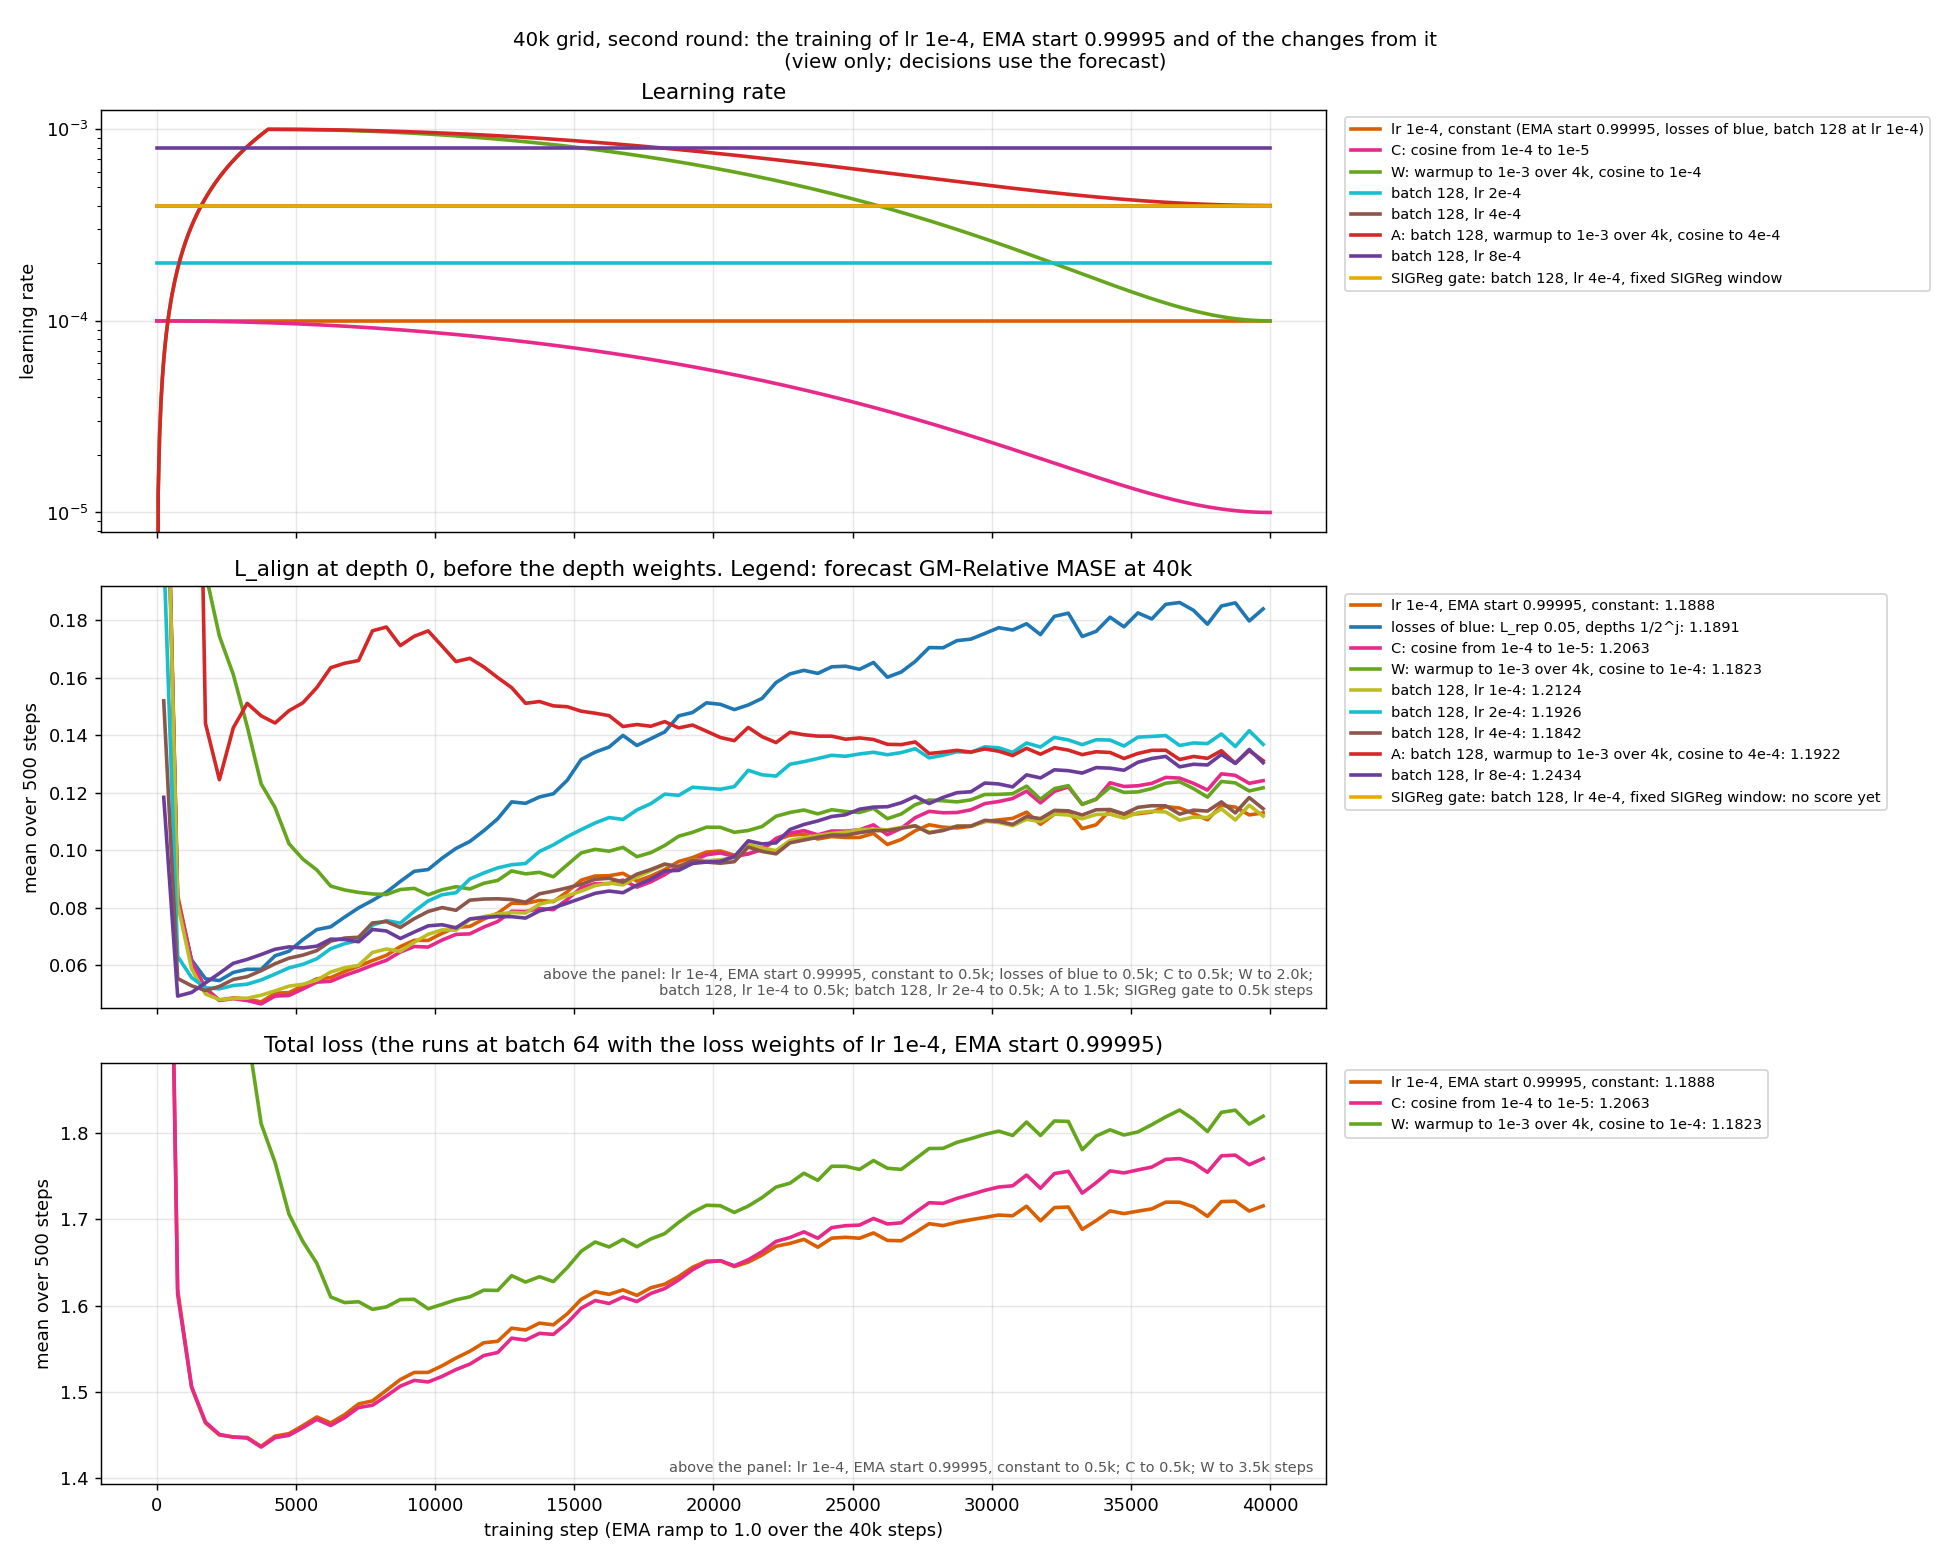
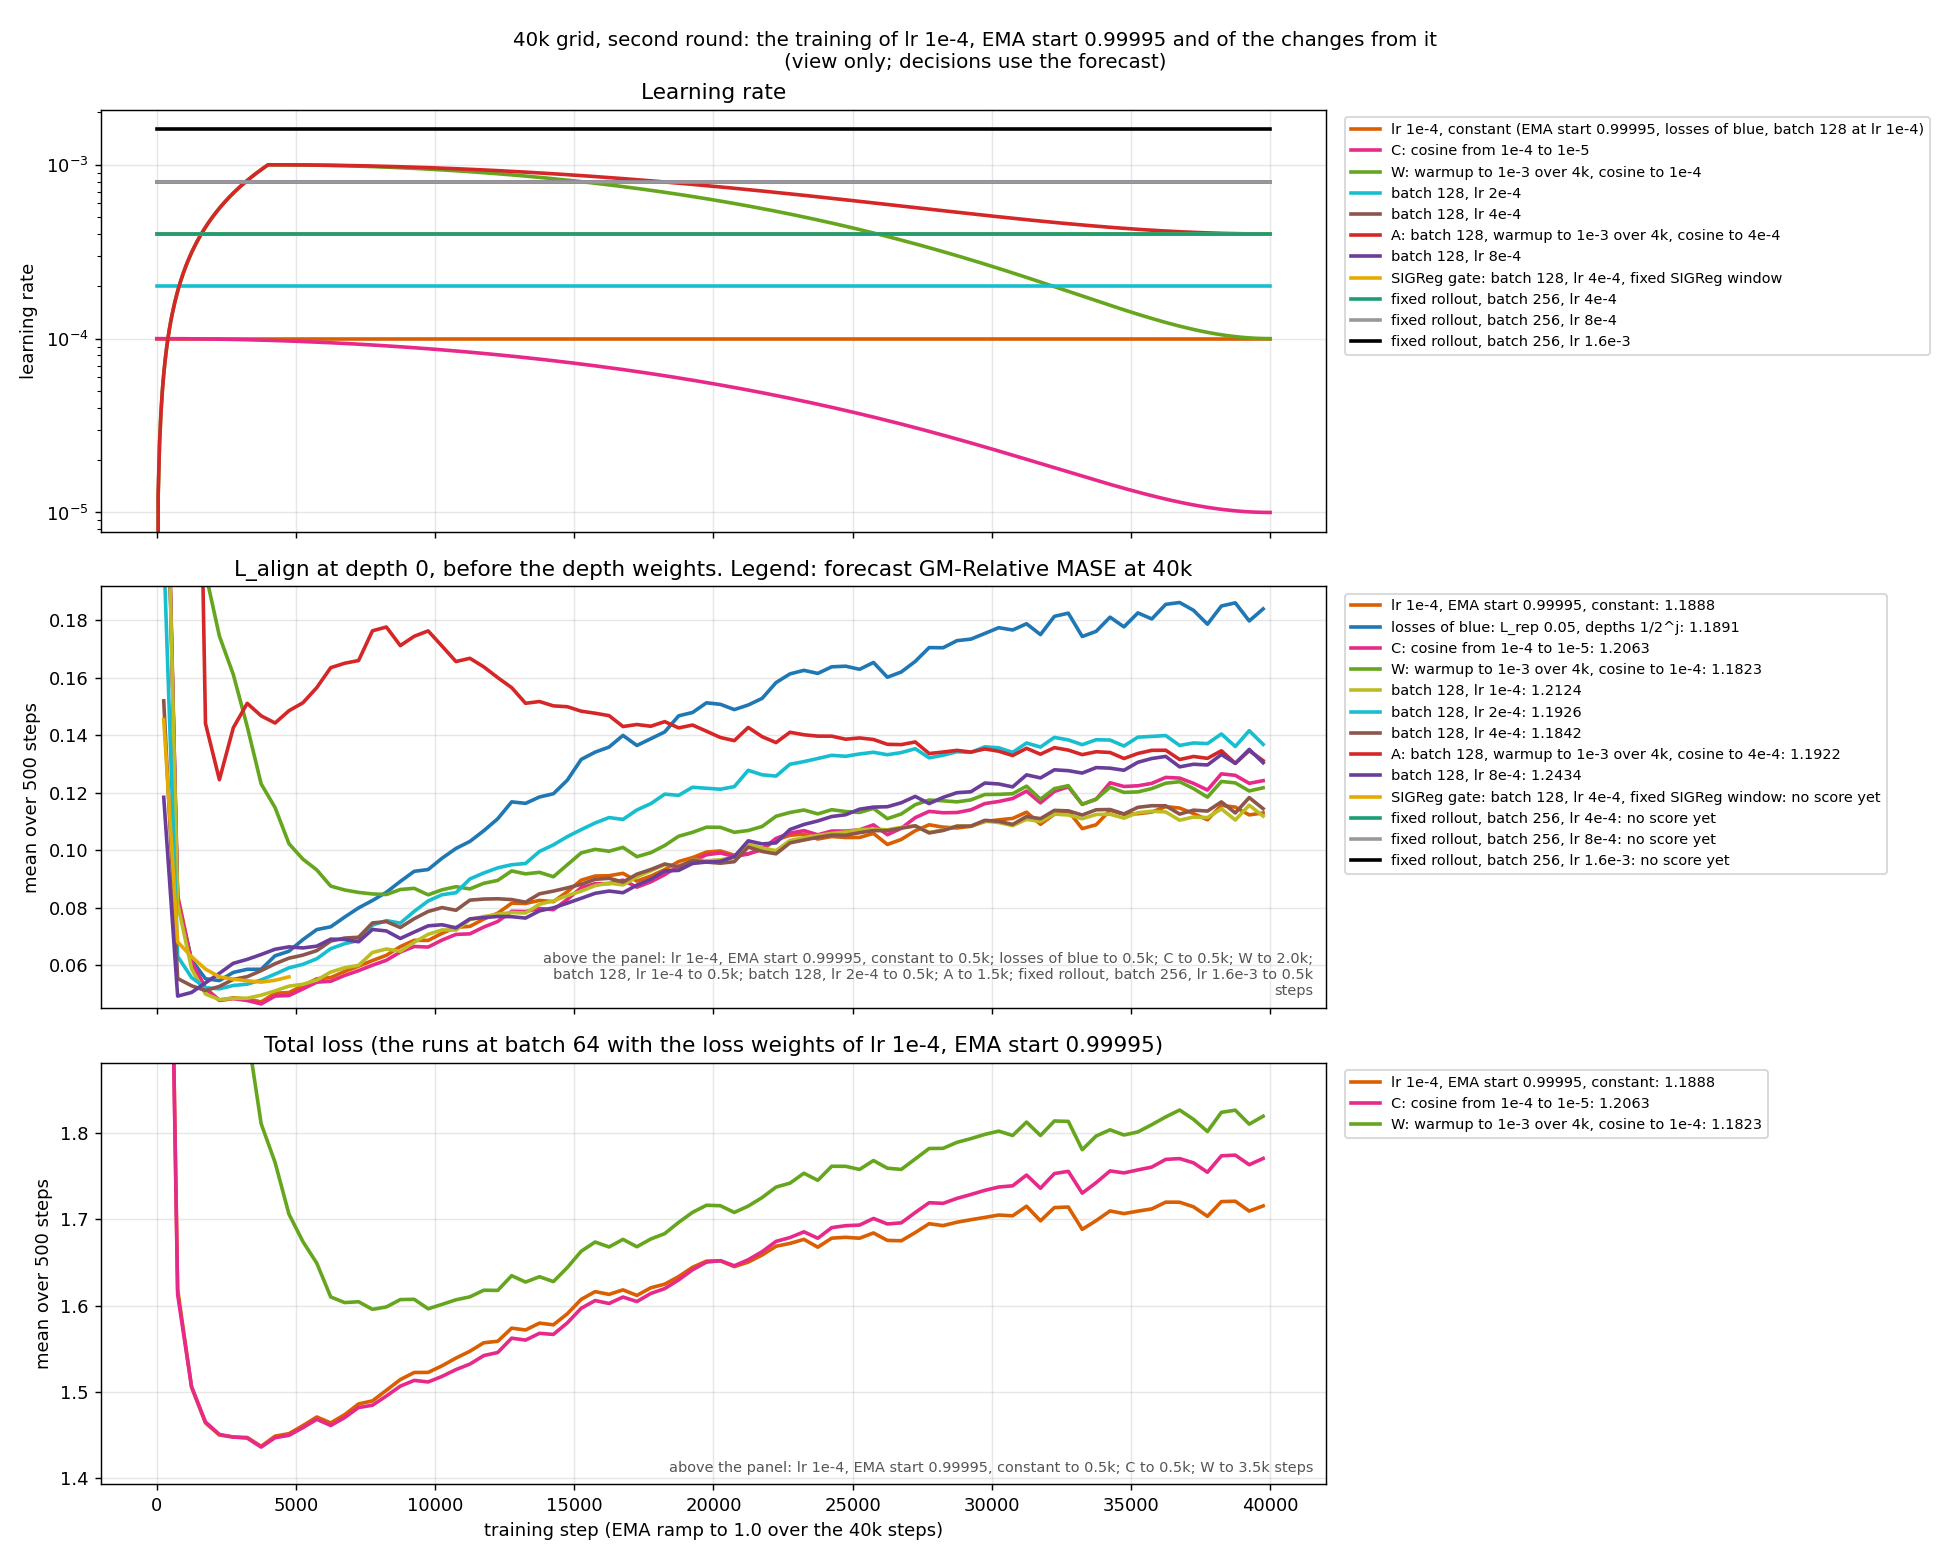
freq_family report: batch 256 trains on the fixed rollout (lr 4e-4, 8e-4 and 1.6e-3) and the SIGReg gate run
The gate run (batch 128, lr 4e-4, SIGReg window fix) has SIGReg about 300 times L_align from step 200 on,
so batch 256 keeps the old SIGReg window. The heatmap has no planned row now.

diff --git a/reports/2026-10-10_frequency_family_head/scripts/plot_grid40k.py b/reports/2026-10-10_frequency_family_head/scripts/plot_grid40k.py
@@ -52,18 +52,22 @@ ROUND2 = {BEST: ("lr 1e-4, EMA start 0.99995\n(no change)", "1e-4"),
           "g40w_lr1em3_wu4k_cos4em4_bs128": ("batch 128, warmup to 1e-3,\nthen cosine to 4e-4",
                                              "warmup to 1e-3, cosine to 4e-4"),
           "g40b_lr8em4_tau99995_bs128": ("batch 128, lr 8e-4", "8e-4"),
-          "g40b_lr4em4_tau99995_bs128_sigfix": ("batch 128, lr 4e-4,\nfixed SIGReg window", "4e-4")}
+          "g40b_lr4em4_tau99995_bs128_sigfix": ("batch 128, lr 4e-4,\nfixed SIGReg window", "4e-4"),
+          "g40b_lr4em4_tau99995_bs256_rollfix": ("FIXED ROLLOUT, batch 256, lr 4e-4\n(scored with the fixed rollout)", "4e-4"),
+          "g40b_lr8em4_tau99995_bs256_rollfix": ("FIXED ROLLOUT, batch 256, lr 8e-4\n(scored with the fixed rollout)", "8e-4"),
+          "g40b_lr1p6em3_tau99995_bs256_rollfix": ("FIXED ROLLOUT, batch 256, lr 1.6e-3\n(scored with the fixed rollout)",
+                                                   "1.6e-3")}
 # The planned runs of the search, not started: (row label, when). The user (11-03 about
 # 21:05 UTC): the heatmap shows them; each one moves into ROUND2 when it starts.
-PLANNED = [
-    ("FIXED CODE, batch 256, constant lr\naround the projected lr", "planned after the gate\n(about 10:30 UTC)"),
-]
+PLANNED = []
 # run -> its colour in the radar and in the training figure of the second round
 ROUND2_COLOURS = {BEST: "#d95f02", "g40b_lr1em4_tau99995_rep005h": "#1f77b4",
                   "g40c_lr1em4_tau99995_cos": "#e7298a", "g40w_lr1em3_wu4k_cos": "#66a61e",
                   "g40b_lr1em4_tau99995_bs128": "#bcbd22", "g40b_lr2em4_tau99995_bs128": "#17becf",
                   "g40b_lr4em4_tau99995_bs128": "#8c564b", "g40w_lr1em3_wu4k_cos4em4_bs128": "#d62728",
-                  "g40b_lr8em4_tau99995_bs128": "#6a3d9a", "g40b_lr4em4_tau99995_bs128_sigfix": "#e6ab02"}
+                  "g40b_lr8em4_tau99995_bs128": "#6a3d9a", "g40b_lr4em4_tau99995_bs128_sigfix": "#e6ab02",
+                  "g40b_lr4em4_tau99995_bs256_rollfix": "#1b9e77", "g40b_lr8em4_tau99995_bs256_rollfix": "#999999",
+                  "g40b_lr1p6em3_tau99995_bs256_rollfix": "#000000"}
 
 
 def run_score(run):

diff --git a/reports/2026-10-10_frequency_family_head/scripts/plot_grid40k_round2.py b/reports/2026-10-10_frequency_family_head/scripts/plot_grid40k_round2.py
@@ -5,7 +5,8 @@ losses of blue (L_rep 0.05, the L_align depth weights 1/2^j), the lr schedule
 (C: a cosine from 1e-4 to 1e-5 over the 40k steps; W: a warmup to 1e-3 over 4k
 steps, then a cosine to 1e-4), batch 128 at the lr 1e-4, 2e-4, 4e-4 and 8e-4, A:
 batch 128 with the warmup of W, then a cosine to 4e-4, and the SIGReg gate: batch
-128 at lr 4e-4 with the SIGReg window fix of #438. Three panels on one step
+128 at lr 4e-4 with the SIGReg window fix of #438, and batch 256 at the lr 4e-4, 8e-4
+and 1.6e-3 with the fixed rollout of #446 and #447 (the old SIGReg window). Three panels on one step
 axis, means over bins of 500 steps:
 
   1. The lr of each step, from the flags of the run (the formula of
@@ -55,6 +56,10 @@ RUNS = {
     "g40b_lr8em4_tau99995_bs128": ("batch 128, lr 8e-4", (8e-4, 8e-4, STEPS, 0), False),
     "g40b_lr4em4_tau99995_bs128_sigfix": ("SIGReg gate: batch 128, lr 4e-4, fixed SIGReg window",
                                           (4e-4, 4e-4, STEPS, 0), False),
+    "g40b_lr4em4_tau99995_bs256_rollfix": ("fixed rollout, batch 256, lr 4e-4", (4e-4, 4e-4, STEPS, 0), False),
+    "g40b_lr8em4_tau99995_bs256_rollfix": ("fixed rollout, batch 256, lr 8e-4", (8e-4, 8e-4, STEPS, 0), False),
+    "g40b_lr1p6em3_tau99995_bs256_rollfix": ("fixed rollout, batch 256, lr 1.6e-3",
+                                             (1.6e-3, 1.6e-3, STEPS, 0), False),
 }
 
 
